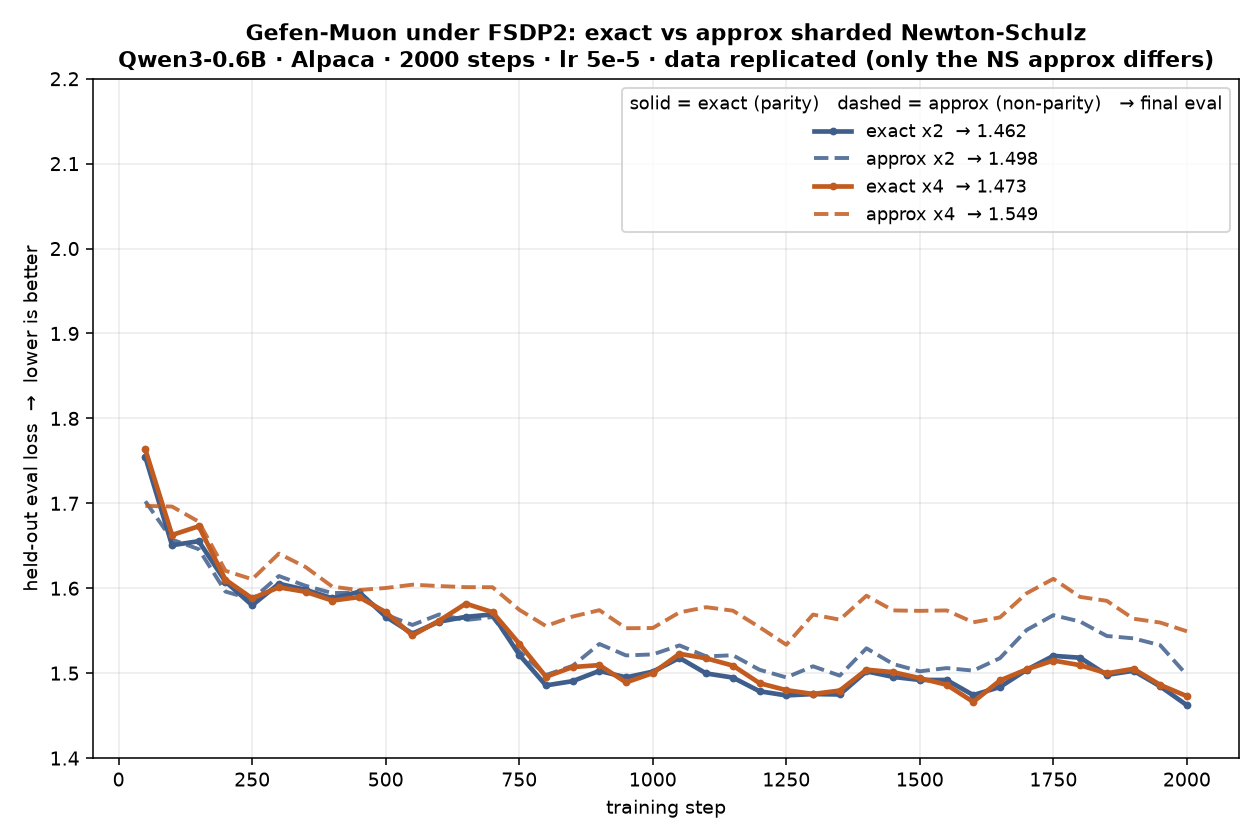
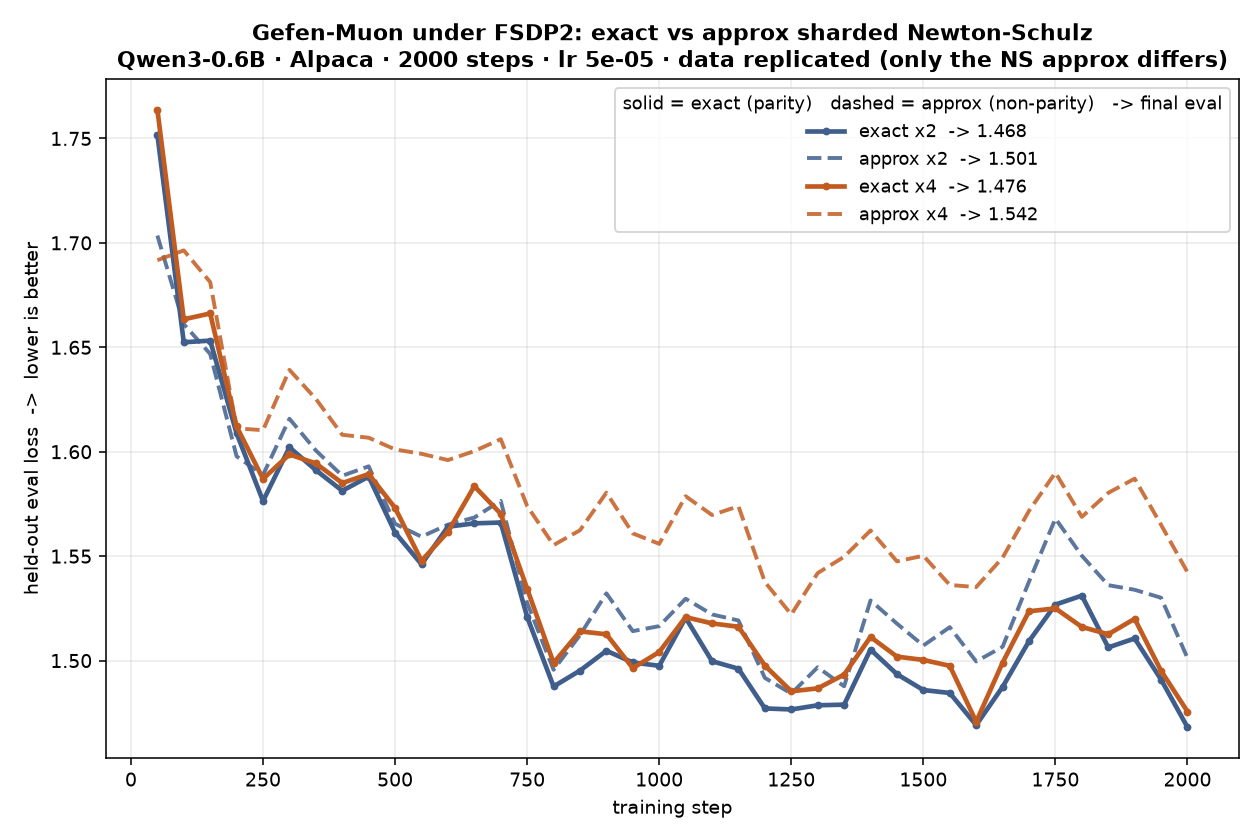
docs(muon): refresh sharding plots from the canonical sharding-sweep run
Regenerate muon_shard_{loss,perf}.png via benchmarks/sharding-sweep/run.sh
(Qwen3-0.6B, 2000 steps, 2&4 GPU) instead of the earlier ad-hoc runs, and sync
the README numbers: approx ~1.3x faster/step for +0.033 eval loss @user shards,
+0.067 @user (gap ~doubles with shard count). Reproducible from the committed harness.

diff --git a/README.md b/README.md
@@ -342,7 +342,7 @@ Qwen3-0.6B, FSDP2, Alpaca, 2000 steps, lr `5e-5` (data replicated so the only va
 ![Gefen-Muon exact vs approx sharded — eval loss](docs/benchmarks/muon_shard_loss.png)
 ![Gefen-Muon exact vs approx sharded — step time & VRAM](docs/benchmarks/muon_shard_perf.png)
 
-`approx` runs ~**1.3–1.7× faster**/step for **+0.036** eval loss at 2 shards and **+0.076** at 4 — the gap roughly doubles 2→4 shards, so treat it as an opt-in speed lever, not a default. For exact numerics without the per-step gather, instead **replicate** the Muon matrices under FSDP (a wrapping choice, not a flag).
+`approx` runs ~**1.3× faster**/step for **+0.033** eval loss at 2 shards and **+0.067** at 4 — the gap roughly doubles 2→4 shards, so treat it as an opt-in speed lever, not a default. For exact numerics without the per-step gather, instead **replicate** the Muon matrices under FSDP (a wrapping choice, not a flag).
 
 ## Citation:
 